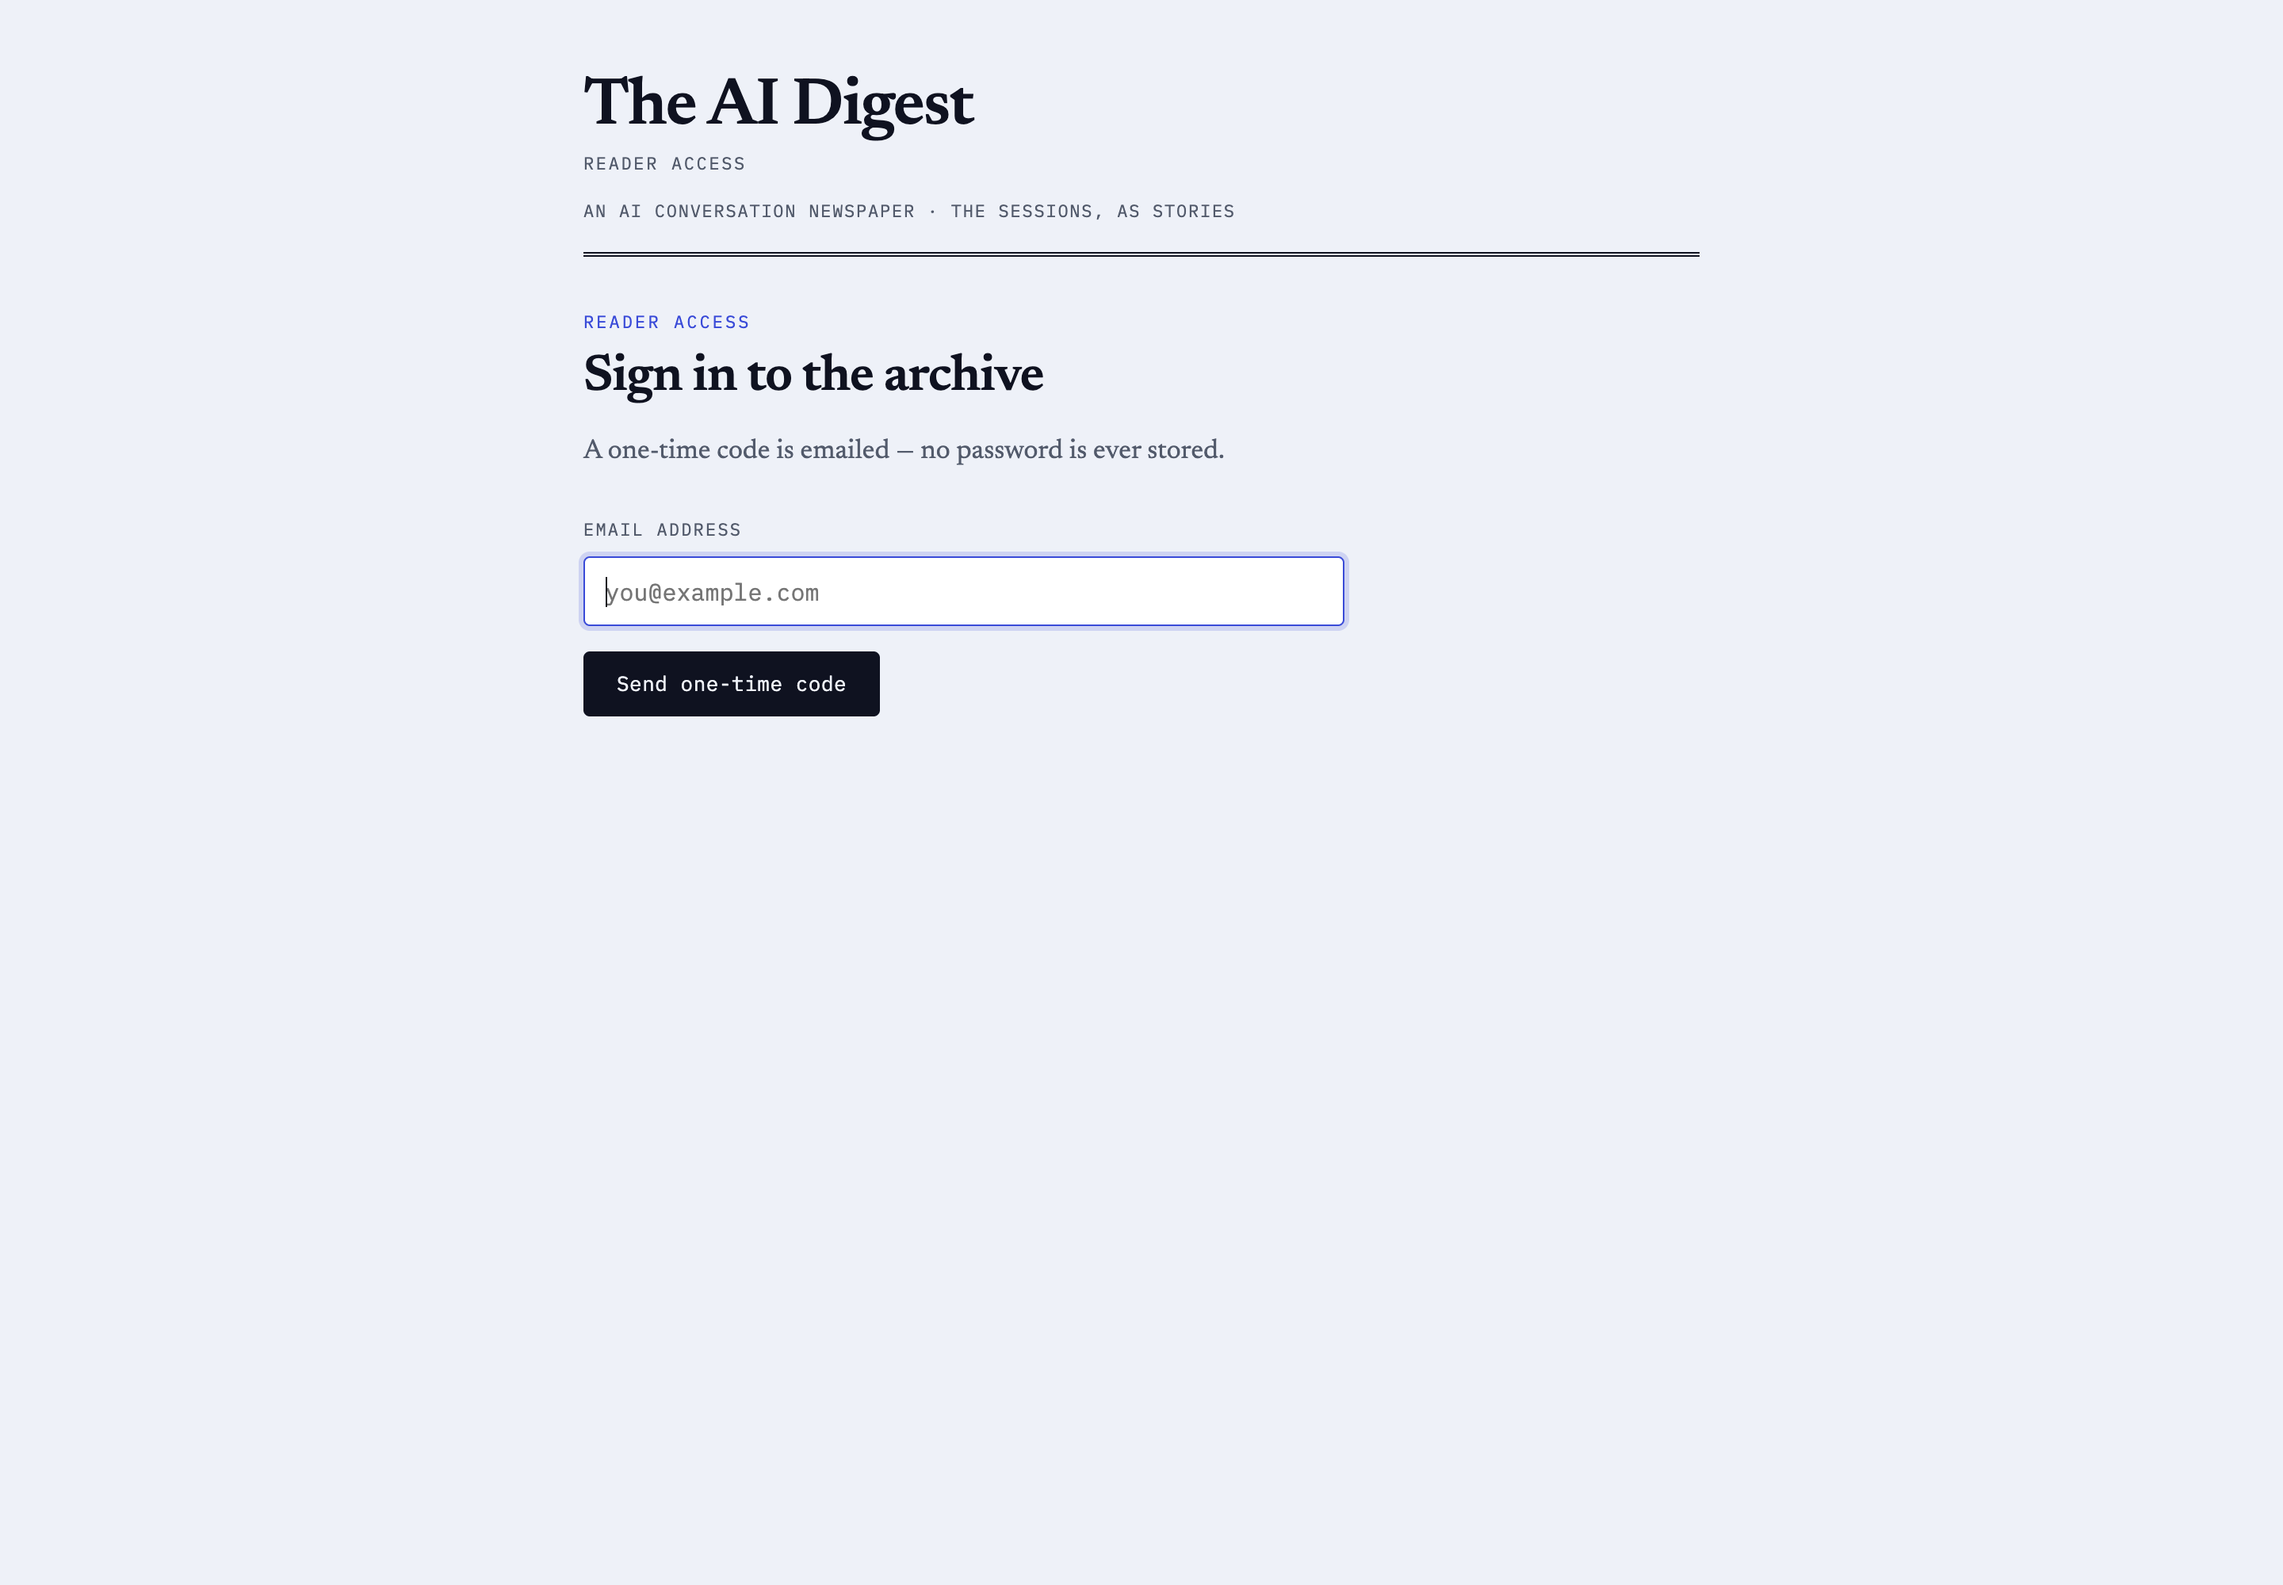
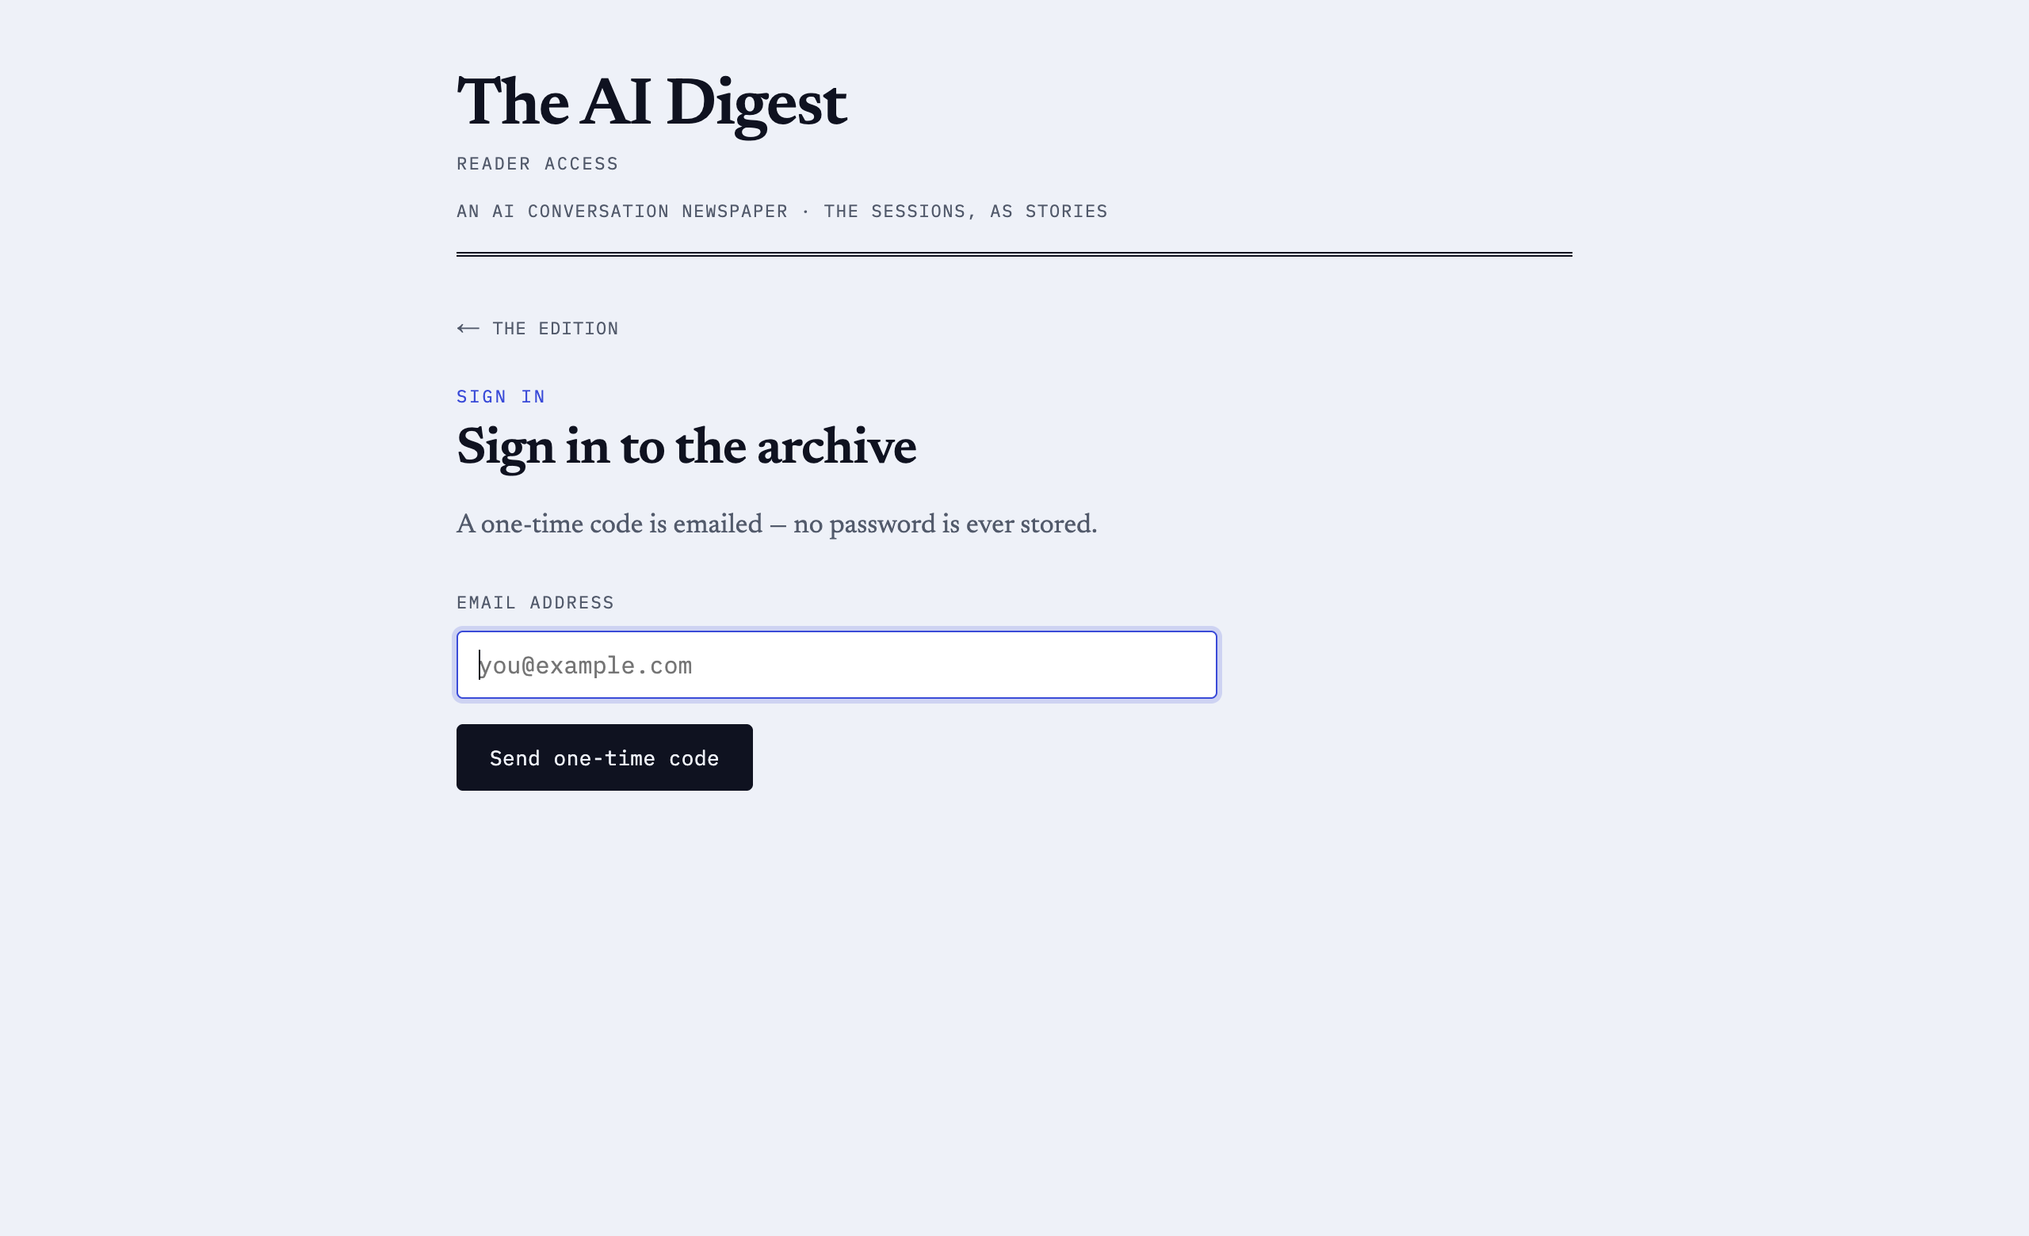
Give the sign-in screen a way back to the edition
/chat-archives/login had no exit. Its masthead has no actions slot by design
(there is no point offering "Sign in" on the sign-in page), the nameplate is
not a link, and AuthFlow is a form. A visitor who arrived there by anything
other than the masthead button — a shared link, a bookmark, the redirect from
the desk — had only the browser's back button.

It was the only page missing one. The reader has "← All sessions" and the desk
has "← The edition"; this now matches. Audited all five routes in a browser
rather than by reading: every one except the edition itself links back to it.

Looking at the result turned up a second thing: "READER ACCESS" appeared twice
within 100px, as the masthead section and again as the kicker. The desk had
exactly this clash ("COPY DESK" twice) and I fixed it there by making the
masthead name the place and the kicker name the task. Same fix here, so the
kickers now read Sign in / One-time code / Verifying / Signed in against a
"Reader access" masthead.

Login screenshots 04-07 regenerated, since the kickers changed.

Changed region(s): [[0.2188, 0.0308, 0.5938, 0.6462]]

diff --git a/frontend/app/components/AuthFlow.tsx b/frontend/app/components/AuthFlow.tsx
@@ -65,7 +65,7 @@ export default function AuthFlow({ next }: { next?: string | null }) {
   if (stage === 'email') {
     return (
       <section>
-        <div className="kicker">Reader access</div>
+        <div className="kicker">Sign in</div>
         <h1 className="hl">Sign in to the archive</h1>
         <p className="standfirst">A one-time code is emailed — no password is ever stored.</p>
         <form
@@ -100,7 +100,7 @@ export default function AuthFlow({ next }: { next?: string | null }) {
   if (stage === 'otp') {
     return (
       <section>
-        <div className="kicker">Reader access</div>
+        <div className="kicker">One-time code</div>
         <h1 className="hl">Enter the six-digit code</h1>
         <p className="standfirst">
           Emailed to <em>{email}</em> · the code expires in 10 minutes.
@@ -139,7 +139,7 @@ export default function AuthFlow({ next }: { next?: string | null }) {
   if (stage === 'verifying') {
     return (
       <section>
-        <div className="kicker">Reader access</div>
+        <div className="kicker">Verifying</div>
         <h1 className="hl">Verifying your code…</h1>
         <div className="spinner" aria-hidden="true" />
         <p className="fine">Checking the one-time code against the ledger.</p>
@@ -150,7 +150,7 @@ export default function AuthFlow({ next }: { next?: string | null }) {
   // ── confirmed ──────────────────────────────────────
   return (
     <section>
-      <div className="kicker">Reader access</div>
+      <div className="kicker">Signed in</div>
       <div className="check" aria-hidden="true">✓</div>
       <h1 className="hl">You are on the desk</h1>
       <p className="standfirst">Signed in. The copy desk is open — file a share link to set it.</p>

diff --git a/frontend/app/chat-archives/login/page.tsx b/frontend/app/chat-archives/login/page.tsx
@@ -1,3 +1,4 @@
+import Link from 'next/link';
 import AuthFlow from '../../components/AuthFlow';
 import Masthead from '../../components/Masthead';
 
@@ -47,6 +48,18 @@ export default async function LoginPage({
   return (
     <main className="frame">
       <Masthead section="Reader access" />
+
+      {/* Every page except the edition itself carries a way back to it, and
+          this one was the gap: the masthead here has no actions slot (there is
+          no point offering "Sign in" on the sign-in page), the nameplate is not
+          a link, and AuthFlow is a form with no exit. So a visitor who landed
+          on /chat-archives/login by any route other than the masthead button —
+          a shared link, a bookmark, a redirect from the desk — had only the
+          browser's back button. */}
+      <Link href="/chat-archives" className="back">
+        ← The edition
+      </Link>
+
       <AuthFlow next={next} />
     </main>
   );
